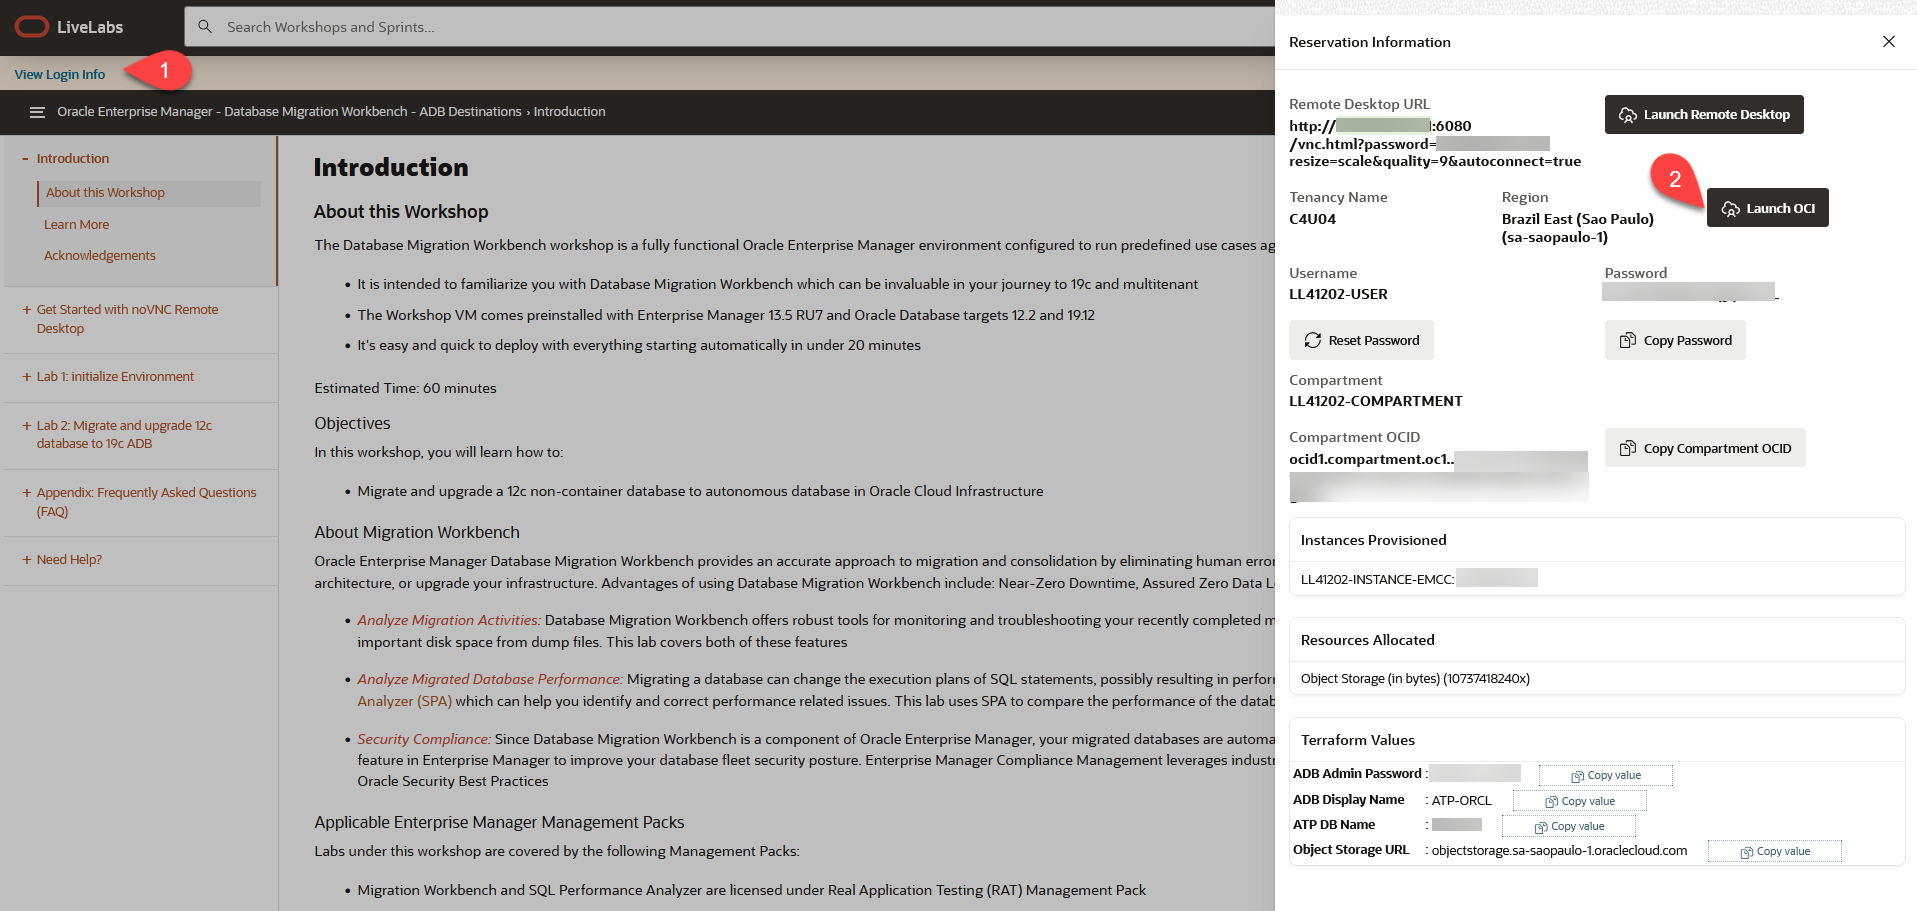
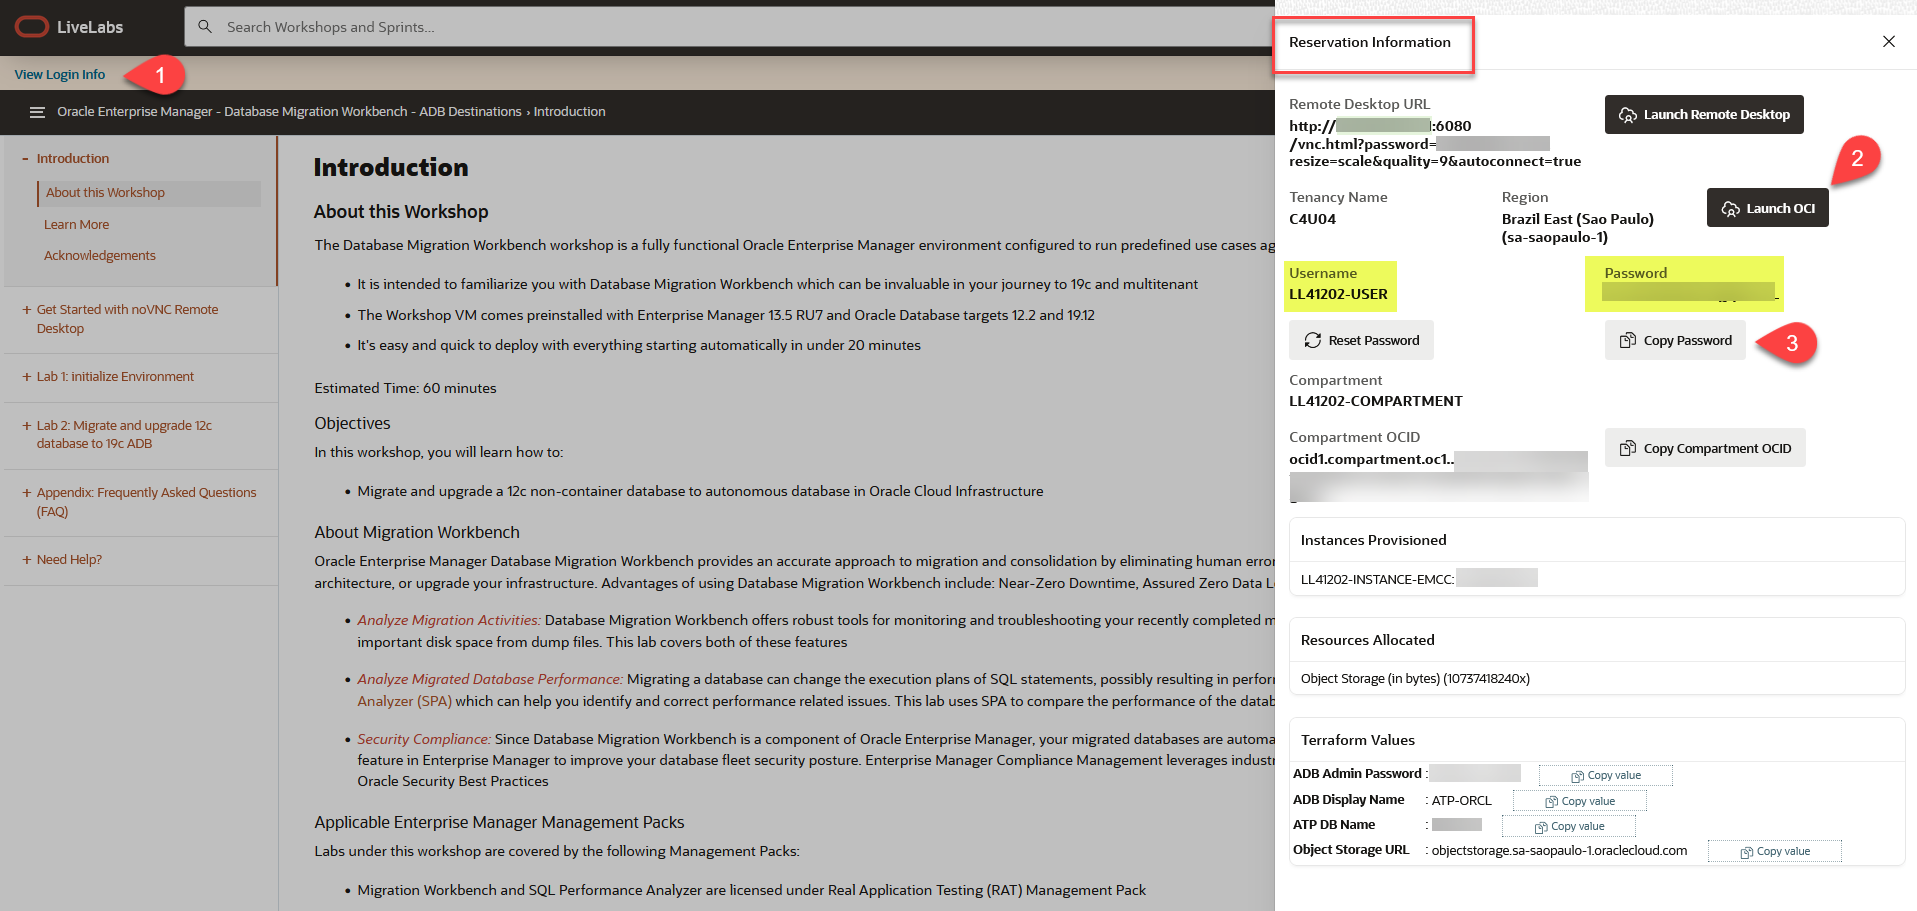
Included PM feedback

diff --git a/enterprise-manager/emcc/em-migration-workbench-adb/migrate-to-adb/migrate-to-adb.md b/enterprise-manager/emcc/em-migration-workbench-adb/migrate-to-adb/migrate-to-adb.md
@@ -2,18 +2,18 @@
 
 ## Introduction
 
-You can use Database Migration Workbench to migrate databases to multi-tenant architecture on Exadata on-premises, to DBCS (ExaCC, ExaCS, BM, or VM), and autonomous, using TTS and data pump migration methods in Oracle Cloud Infrastructure (OCI). This lab demonstrate using Migration Workbench for **on-premises** to **autonomous** migration.
+You can use Database Migration Workbench to migrate databases to multi-tenant architecture on Exadata on-premises, to Base Database Service (BM or VM) or Exadata Database Service (ExaCC, ExaCS), and autonomous, using TTS and data pump migration methods in Oracle Cloud Infrastructure (OCI). This lab demonstrate using Migration Workbench for **on-premises** to **autonomous** migration.
 
 Estimated Time: 60 minutes
 
 ### Objectives
 
-In this lab you will perform the tasks below. Task 1 is to review the prerequisites completed in advance for this lab. In task 2 you will create an autonomous database in Oracle Cloud. In task 3 you will perform the pre-requisites for the autonomous database before migration. In task 4 you will create a migration activity, add details, and learn about the various configuration options. After the migration is complete, you will analyze the migration activity and compare performance before and after the migration.
+In this lab you will perform the tasks below. Task 1 is to review the prerequisites completed in advance for this lab. In task 2 you will review the autonomous database creation completed in advance for this lab. In task 3 you will perform the pre-requisites for the autonomous database before migration. In task 4 you will create a migration activity, add details, and learn about the various configuration options. After the migration is complete, you will analyze the migration activity and compare performance before and after the migration.
 
 | Task No.                                      | Description                                                                 | Approx. Time | Details                                                                                                                                                                                    |
 |-----------------------------------------------------------|-------------------------------------------------------------------------|--------------|--------------------------------------------------------------------------------------------------------------------------------------------------------------------------------------------|
-| 1 | Review prerequisites completed in advance | 10 minutes | Review prerequisites completed on the source database, host, and in Enterprise Manager |
-| 2 | Create destination autonomous database and storage bucket in OCI | 10 minutes   | Create the autonomous database and download the client wallet. Create a storage bucket to store migration files |
+| 1 | Launch Enterprise Manager console and review prerequisites completed in advance | 10 minutes | Review prerequisites completed on the source database and in Enterprise Manager |
+| 2 | Launch OCI console and review prerequisites completed in advance | 10 minutes   | Review autonomous database and storage bucket created in OCI in advance |
 | 3 | Perform target autonomous database pre-requisites | 20 minutes   | Discover the autonomous database in Enterprise Manager. Create required credentials |
 | 4 | Migrate and upgrade a 12c non-container database to 19c autonomous database in Oracle Cloud | 20 minutes   | Source database: orcl, destination database: ATP-ORCL |
 
@@ -29,13 +29,17 @@ In this lab you will perform the tasks below. Task 1 is to review the prerequisi
 
 ## Task 1: Launch Enterprise Manager console and review prerequisites completed in advance
 
-Once your workshop is provisioned, click on "View Login Info" on the top right of the browser page. This opens the "Reservation Information" screen, click on "Launch Enterprise Manager":
+Once your workshop is provisioned, click on "View Login Info" on the top right of the browser page. This opens the "Reservation Information" screen:
 
-![Launch EM](images/launch-em.png " ")
+![Launch EM](images/launch-reservation.png " ")
 
-> **Note:** You may see an error on the browser while accessing the Web Console - “Your connection is not private” as shown below. Ignore and add the exception to proceed.
+For this workshop you will not use the remote desktop, so do not click the "Launch Remote Desktop" button, but rather copy the IP address of you instance. Open a new browser tab and enter the Enterprise Manager console URL for your instance as follows:
+
+https://*The IP address you just copied*:7803/em
 
 ![Security warning](../../initialize-environment/images/login-em-external-1.png " ")
+
+> **Note:** You may see an error on the browser while accessing the Web Console - “Your connection is not private” as shown below. Ignore and add the exception to proceed.
 
 click on the *Username* field and login with the credentials provided below.
 
@@ -97,7 +101,11 @@ Sign in using the password provided in the "Reservation Information" screen:
 
 ![OCI Login](images/login-oci.png " ")
 
-On the "Change Password" screen, choose a new password that meets the requirements provided, and click "Save New Password". This takes you to the OCI console:
+On the "Change Password" screen, choose a new password that meets the requirements provided, and click "Save New Password": 
+
+![Change OCI Password](images/oci-change-password.png " ")
+
+This takes you to the OCI console:
 
 ![OCI Console](images/oci-console.png " ")
 
@@ -105,7 +113,7 @@ On the "Change Password" screen, choose a new password that meets the requiremen
 
 ![ADB Menu](images/adb-menu.png " ")
 
-The "Autonomous Databases" screen opens in the root compartment at first, which you don't have permission to. Click on the "Compartment" drop-down list and select your compartment as provided in the "Reservation Information" screen:
+The "Autonomous Databases" screen opens in the root compartment at first, which you don't have permission to. Click on the "Compartment" drop-down list and select your compartment as provided in the "Reservation Information" screen. Note your compartment name will start with your username:
 
 ![ADB Page 1](images/adb-page-1.png " ")
 
